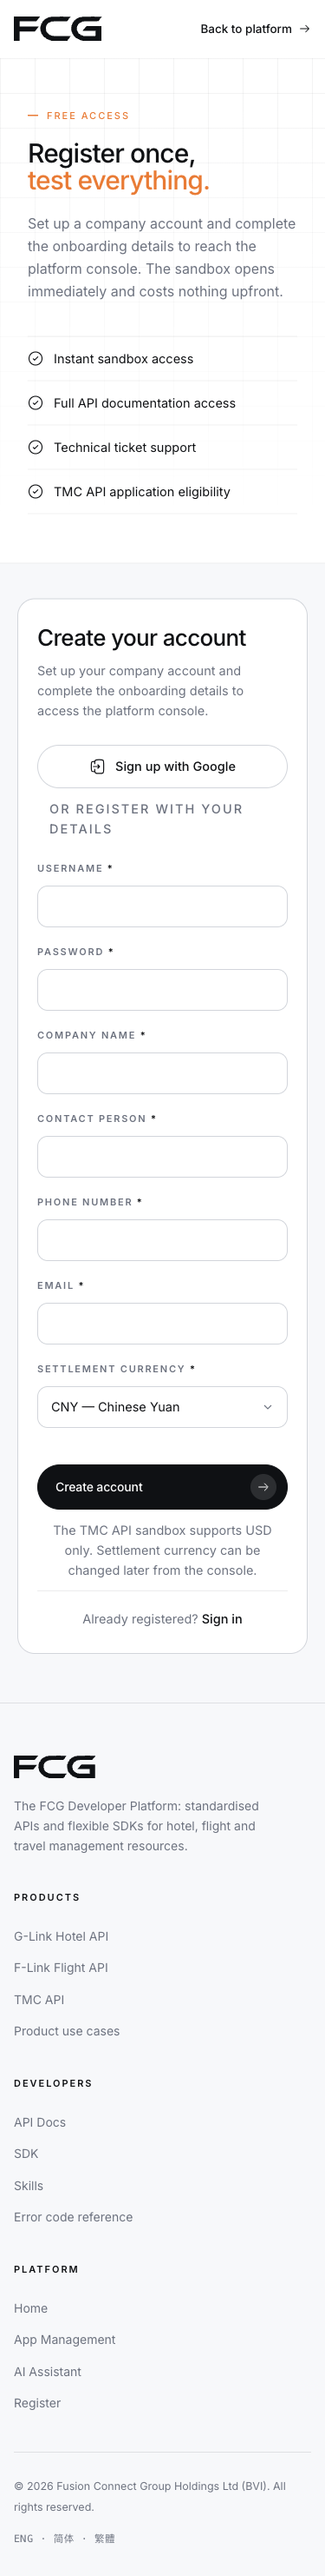
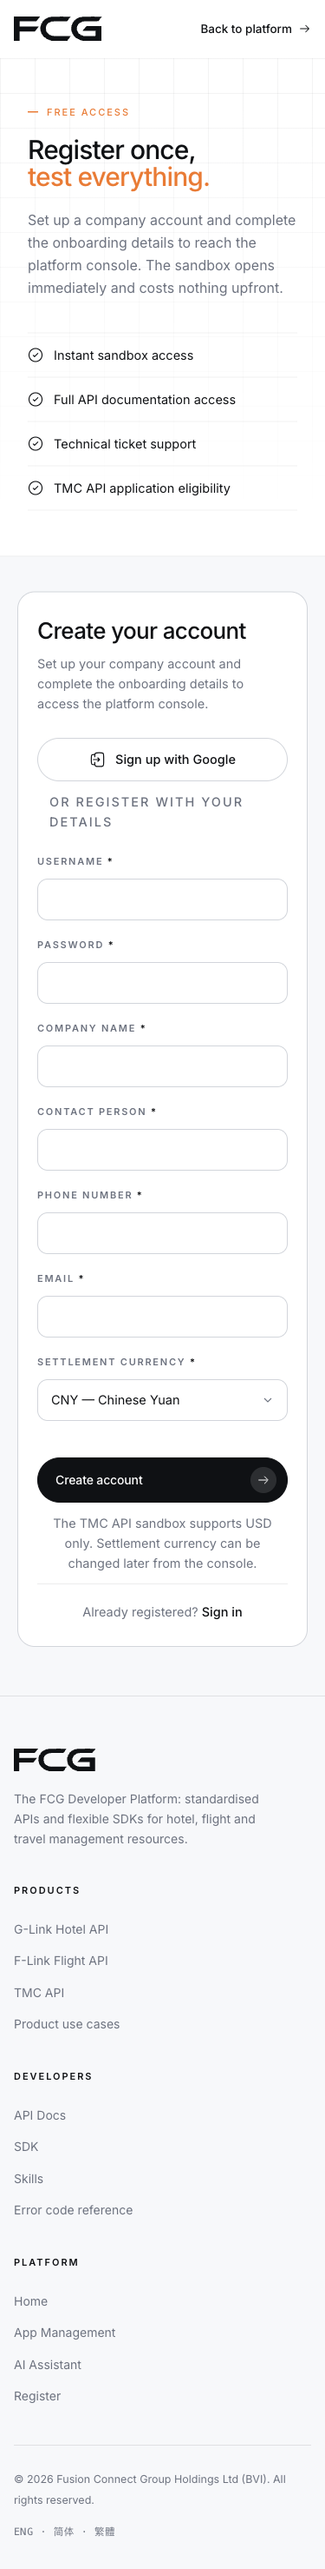
Auth aside: top-aligned and sticky so it clears the fold
The register form is far taller than the aside beside it, so centring the
aside pushed its benefit list below the fold. Top-aligned with a sticky inner
column: fully visible from 720px viewport height upward, and it stays in view
while the long form scrolls.

Verified at 1440x900, 1280x800, 1280x720, 1280x1080 and 375x812 — the aside's
last child bottom sits inside the viewport at every one.

diff --git a/open-portal-redesign/variant-b-impeccable/ai-assistant.html b/open-portal-redesign/variant-b-impeccable/ai-assistant.html
@@ -720,7 +720,11 @@ code.inl{font-family:var(--mono);font-size:12.5px;background:var(--card);border:
 
 /* ---------- auth ---------- */
 .auth{min-height:calc(100vh - 76px);display:grid;grid-template-columns:minmax(0,1.02fr) minmax(0,.98fr)}
-.auth-aside{position:relative;padding:84px 0 72px;border-right:1px solid var(--hair);overflow:hidden;display:flex;align-items:center}
+/* top-aligned, not centred: the register form is far taller than this
+   column, and centring pushed the aside's list below the fold. Sticky so
+   it stays in view while the form scrolls. */
+.auth-aside{position:relative;padding:64px 0 72px;border-right:1px solid var(--hair);overflow:hidden;display:flex;align-items:flex-start}
+.auth-aside .wrap{position:sticky;top:0}
 .auth-aside .wrap{max-width:none;padding:0 64px 0 max(32px,calc((100vw - var(--wrap)) / 2 + 32px));width:100%}
 .auth-aside .ahead{font-size:clamp(30px,3.6vw,50px);line-height:1.04;letter-spacing:-.03em;max-width:18ch;margin-top:22px;color:var(--ink);font-weight:500}
 .auth-aside .ahead em{display:block;font-style:normal;color:var(--accent)}
@@ -822,7 +826,8 @@ code.inl{font-family:var(--mono);font-size:12.5px;background:var(--card);border:
   .docs-side-in{position:static;flex-direction:row;flex-wrap:wrap;gap:26px 44px}
   .docs-main{padding:38px 0 72px}
   .auth{grid-template-columns:minmax(0,1fr);min-height:0}
-  .auth-aside{border-right:0;border-bottom:1px solid var(--hair);padding:60px 0 56px}
+  .auth-aside{border-right:0;border-bottom:1px solid var(--hair);padding:56px 0 52px}
+  .auth-aside .wrap{position:static}
   .auth-aside .wrap{max-width:var(--wrap);margin:0 auto;padding:0 32px}
   .auth-main{padding:56px 32px 72px}
   .chat{grid-template-columns:minmax(0,1fr)}

diff --git a/open-portal-redesign/variant-b-impeccable/api-docs-errors.html b/open-portal-redesign/variant-b-impeccable/api-docs-errors.html
@@ -720,7 +720,11 @@ code.inl{font-family:var(--mono);font-size:12.5px;background:var(--card);border:
 
 /* ---------- auth ---------- */
 .auth{min-height:calc(100vh - 76px);display:grid;grid-template-columns:minmax(0,1.02fr) minmax(0,.98fr)}
-.auth-aside{position:relative;padding:84px 0 72px;border-right:1px solid var(--hair);overflow:hidden;display:flex;align-items:center}
+/* top-aligned, not centred: the register form is far taller than this
+   column, and centring pushed the aside's list below the fold. Sticky so
+   it stays in view while the form scrolls. */
+.auth-aside{position:relative;padding:64px 0 72px;border-right:1px solid var(--hair);overflow:hidden;display:flex;align-items:flex-start}
+.auth-aside .wrap{position:sticky;top:0}
 .auth-aside .wrap{max-width:none;padding:0 64px 0 max(32px,calc((100vw - var(--wrap)) / 2 + 32px));width:100%}
 .auth-aside .ahead{font-size:clamp(30px,3.6vw,50px);line-height:1.04;letter-spacing:-.03em;max-width:18ch;margin-top:22px;color:var(--ink);font-weight:500}
 .auth-aside .ahead em{display:block;font-style:normal;color:var(--accent)}
@@ -822,7 +826,8 @@ code.inl{font-family:var(--mono);font-size:12.5px;background:var(--card);border:
   .docs-side-in{position:static;flex-direction:row;flex-wrap:wrap;gap:26px 44px}
   .docs-main{padding:38px 0 72px}
   .auth{grid-template-columns:minmax(0,1fr);min-height:0}
-  .auth-aside{border-right:0;border-bottom:1px solid var(--hair);padding:60px 0 56px}
+  .auth-aside{border-right:0;border-bottom:1px solid var(--hair);padding:56px 0 52px}
+  .auth-aside .wrap{position:static}
   .auth-aside .wrap{max-width:var(--wrap);margin:0 auto;padding:0 32px}
   .auth-main{padding:56px 32px 72px}
   .chat{grid-template-columns:minmax(0,1fr)}

diff --git a/open-portal-redesign/variant-b-impeccable/api-docs-flink.html b/open-portal-redesign/variant-b-impeccable/api-docs-flink.html
@@ -720,7 +720,11 @@ code.inl{font-family:var(--mono);font-size:12.5px;background:var(--card);border:
 
 /* ---------- auth ---------- */
 .auth{min-height:calc(100vh - 76px);display:grid;grid-template-columns:minmax(0,1.02fr) minmax(0,.98fr)}
-.auth-aside{position:relative;padding:84px 0 72px;border-right:1px solid var(--hair);overflow:hidden;display:flex;align-items:center}
+/* top-aligned, not centred: the register form is far taller than this
+   column, and centring pushed the aside's list below the fold. Sticky so
+   it stays in view while the form scrolls. */
+.auth-aside{position:relative;padding:64px 0 72px;border-right:1px solid var(--hair);overflow:hidden;display:flex;align-items:flex-start}
+.auth-aside .wrap{position:sticky;top:0}
 .auth-aside .wrap{max-width:none;padding:0 64px 0 max(32px,calc((100vw - var(--wrap)) / 2 + 32px));width:100%}
 .auth-aside .ahead{font-size:clamp(30px,3.6vw,50px);line-height:1.04;letter-spacing:-.03em;max-width:18ch;margin-top:22px;color:var(--ink);font-weight:500}
 .auth-aside .ahead em{display:block;font-style:normal;color:var(--accent)}
@@ -822,7 +826,8 @@ code.inl{font-family:var(--mono);font-size:12.5px;background:var(--card);border:
   .docs-side-in{position:static;flex-direction:row;flex-wrap:wrap;gap:26px 44px}
   .docs-main{padding:38px 0 72px}
   .auth{grid-template-columns:minmax(0,1fr);min-height:0}
-  .auth-aside{border-right:0;border-bottom:1px solid var(--hair);padding:60px 0 56px}
+  .auth-aside{border-right:0;border-bottom:1px solid var(--hair);padding:56px 0 52px}
+  .auth-aside .wrap{position:static}
   .auth-aside .wrap{max-width:var(--wrap);margin:0 auto;padding:0 32px}
   .auth-main{padding:56px 32px 72px}
   .chat{grid-template-columns:minmax(0,1fr)}

diff --git a/open-portal-redesign/variant-b-impeccable/api-docs-hotel-apis.html b/open-portal-redesign/variant-b-impeccable/api-docs-hotel-apis.html
@@ -720,7 +720,11 @@ code.inl{font-family:var(--mono);font-size:12.5px;background:var(--card);border:
 
 /* ---------- auth ---------- */
 .auth{min-height:calc(100vh - 76px);display:grid;grid-template-columns:minmax(0,1.02fr) minmax(0,.98fr)}
-.auth-aside{position:relative;padding:84px 0 72px;border-right:1px solid var(--hair);overflow:hidden;display:flex;align-items:center}
+/* top-aligned, not centred: the register form is far taller than this
+   column, and centring pushed the aside's list below the fold. Sticky so
+   it stays in view while the form scrolls. */
+.auth-aside{position:relative;padding:64px 0 72px;border-right:1px solid var(--hair);overflow:hidden;display:flex;align-items:flex-start}
+.auth-aside .wrap{position:sticky;top:0}
 .auth-aside .wrap{max-width:none;padding:0 64px 0 max(32px,calc((100vw - var(--wrap)) / 2 + 32px));width:100%}
 .auth-aside .ahead{font-size:clamp(30px,3.6vw,50px);line-height:1.04;letter-spacing:-.03em;max-width:18ch;margin-top:22px;color:var(--ink);font-weight:500}
 .auth-aside .ahead em{display:block;font-style:normal;color:var(--accent)}
@@ -822,7 +826,8 @@ code.inl{font-family:var(--mono);font-size:12.5px;background:var(--card);border:
   .docs-side-in{position:static;flex-direction:row;flex-wrap:wrap;gap:26px 44px}
   .docs-main{padding:38px 0 72px}
   .auth{grid-template-columns:minmax(0,1fr);min-height:0}
-  .auth-aside{border-right:0;border-bottom:1px solid var(--hair);padding:60px 0 56px}
+  .auth-aside{border-right:0;border-bottom:1px solid var(--hair);padding:56px 0 52px}
+  .auth-aside .wrap{position:static}
   .auth-aside .wrap{max-width:var(--wrap);margin:0 auto;padding:0 32px}
   .auth-main{padding:56px 32px 72px}
   .chat{grid-template-columns:minmax(0,1fr)}

diff --git a/open-portal-redesign/variant-b-impeccable/api-docs-hotel-process.html b/open-portal-redesign/variant-b-impeccable/api-docs-hotel-process.html
@@ -720,7 +720,11 @@ code.inl{font-family:var(--mono);font-size:12.5px;background:var(--card);border:
 
 /* ---------- auth ---------- */
 .auth{min-height:calc(100vh - 76px);display:grid;grid-template-columns:minmax(0,1.02fr) minmax(0,.98fr)}
-.auth-aside{position:relative;padding:84px 0 72px;border-right:1px solid var(--hair);overflow:hidden;display:flex;align-items:center}
+/* top-aligned, not centred: the register form is far taller than this
+   column, and centring pushed the aside's list below the fold. Sticky so
+   it stays in view while the form scrolls. */
+.auth-aside{position:relative;padding:64px 0 72px;border-right:1px solid var(--hair);overflow:hidden;display:flex;align-items:flex-start}
+.auth-aside .wrap{position:sticky;top:0}
 .auth-aside .wrap{max-width:none;padding:0 64px 0 max(32px,calc((100vw - var(--wrap)) / 2 + 32px));width:100%}
 .auth-aside .ahead{font-size:clamp(30px,3.6vw,50px);line-height:1.04;letter-spacing:-.03em;max-width:18ch;margin-top:22px;color:var(--ink);font-weight:500}
 .auth-aside .ahead em{display:block;font-style:normal;color:var(--accent)}
@@ -822,7 +826,8 @@ code.inl{font-family:var(--mono);font-size:12.5px;background:var(--card);border:
   .docs-side-in{position:static;flex-direction:row;flex-wrap:wrap;gap:26px 44px}
   .docs-main{padding:38px 0 72px}
   .auth{grid-template-columns:minmax(0,1fr);min-height:0}
-  .auth-aside{border-right:0;border-bottom:1px solid var(--hair);padding:60px 0 56px}
+  .auth-aside{border-right:0;border-bottom:1px solid var(--hair);padding:56px 0 52px}
+  .auth-aside .wrap{position:static}
   .auth-aside .wrap{max-width:var(--wrap);margin:0 auto;padding:0 32px}
   .auth-main{padding:56px 32px 72px}
   .chat{grid-template-columns:minmax(0,1fr)}

diff --git a/open-portal-redesign/variant-b-impeccable/api-docs-hotel.html b/open-portal-redesign/variant-b-impeccable/api-docs-hotel.html
@@ -720,7 +720,11 @@ code.inl{font-family:var(--mono);font-size:12.5px;background:var(--card);border:
 
 /* ---------- auth ---------- */
 .auth{min-height:calc(100vh - 76px);display:grid;grid-template-columns:minmax(0,1.02fr) minmax(0,.98fr)}
-.auth-aside{position:relative;padding:84px 0 72px;border-right:1px solid var(--hair);overflow:hidden;display:flex;align-items:center}
+/* top-aligned, not centred: the register form is far taller than this
+   column, and centring pushed the aside's list below the fold. Sticky so
+   it stays in view while the form scrolls. */
+.auth-aside{position:relative;padding:64px 0 72px;border-right:1px solid var(--hair);overflow:hidden;display:flex;align-items:flex-start}
+.auth-aside .wrap{position:sticky;top:0}
 .auth-aside .wrap{max-width:none;padding:0 64px 0 max(32px,calc((100vw - var(--wrap)) / 2 + 32px));width:100%}
 .auth-aside .ahead{font-size:clamp(30px,3.6vw,50px);line-height:1.04;letter-spacing:-.03em;max-width:18ch;margin-top:22px;color:var(--ink);font-weight:500}
 .auth-aside .ahead em{display:block;font-style:normal;color:var(--accent)}
@@ -822,7 +826,8 @@ code.inl{font-family:var(--mono);font-size:12.5px;background:var(--card);border:
   .docs-side-in{position:static;flex-direction:row;flex-wrap:wrap;gap:26px 44px}
   .docs-main{padding:38px 0 72px}
   .auth{grid-template-columns:minmax(0,1fr);min-height:0}
-  .auth-aside{border-right:0;border-bottom:1px solid var(--hair);padding:60px 0 56px}
+  .auth-aside{border-right:0;border-bottom:1px solid var(--hair);padding:56px 0 52px}
+  .auth-aside .wrap{position:static}
   .auth-aside .wrap{max-width:var(--wrap);margin:0 auto;padding:0 32px}
   .auth-main{padding:56px 32px 72px}
   .chat{grid-template-columns:minmax(0,1fr)}

diff --git a/open-portal-redesign/variant-b-impeccable/app-management.html b/open-portal-redesign/variant-b-impeccable/app-management.html
@@ -720,7 +720,11 @@ code.inl{font-family:var(--mono);font-size:12.5px;background:var(--card);border:
 
 /* ---------- auth ---------- */
 .auth{min-height:calc(100vh - 76px);display:grid;grid-template-columns:minmax(0,1.02fr) minmax(0,.98fr)}
-.auth-aside{position:relative;padding:84px 0 72px;border-right:1px solid var(--hair);overflow:hidden;display:flex;align-items:center}
+/* top-aligned, not centred: the register form is far taller than this
+   column, and centring pushed the aside's list below the fold. Sticky so
+   it stays in view while the form scrolls. */
+.auth-aside{position:relative;padding:64px 0 72px;border-right:1px solid var(--hair);overflow:hidden;display:flex;align-items:flex-start}
+.auth-aside .wrap{position:sticky;top:0}
 .auth-aside .wrap{max-width:none;padding:0 64px 0 max(32px,calc((100vw - var(--wrap)) / 2 + 32px));width:100%}
 .auth-aside .ahead{font-size:clamp(30px,3.6vw,50px);line-height:1.04;letter-spacing:-.03em;max-width:18ch;margin-top:22px;color:var(--ink);font-weight:500}
 .auth-aside .ahead em{display:block;font-style:normal;color:var(--accent)}
@@ -822,7 +826,8 @@ code.inl{font-family:var(--mono);font-size:12.5px;background:var(--card);border:
   .docs-side-in{position:static;flex-direction:row;flex-wrap:wrap;gap:26px 44px}
   .docs-main{padding:38px 0 72px}
   .auth{grid-template-columns:minmax(0,1fr);min-height:0}
-  .auth-aside{border-right:0;border-bottom:1px solid var(--hair);padding:60px 0 56px}
+  .auth-aside{border-right:0;border-bottom:1px solid var(--hair);padding:56px 0 52px}
+  .auth-aside .wrap{position:static}
   .auth-aside .wrap{max-width:var(--wrap);margin:0 auto;padding:0 32px}
   .auth-main{padding:56px 32px 72px}
   .chat{grid-template-columns:minmax(0,1fr)}

diff --git a/open-portal-redesign/variant-b-impeccable/login.html b/open-portal-redesign/variant-b-impeccable/login.html
@@ -720,7 +720,11 @@ code.inl{font-family:var(--mono);font-size:12.5px;background:var(--card);border:
 
 /* ---------- auth ---------- */
 .auth{min-height:calc(100vh - 76px);display:grid;grid-template-columns:minmax(0,1.02fr) minmax(0,.98fr)}
-.auth-aside{position:relative;padding:84px 0 72px;border-right:1px solid var(--hair);overflow:hidden;display:flex;align-items:center}
+/* top-aligned, not centred: the register form is far taller than this
+   column, and centring pushed the aside's list below the fold. Sticky so
+   it stays in view while the form scrolls. */
+.auth-aside{position:relative;padding:64px 0 72px;border-right:1px solid var(--hair);overflow:hidden;display:flex;align-items:flex-start}
+.auth-aside .wrap{position:sticky;top:0}
 .auth-aside .wrap{max-width:none;padding:0 64px 0 max(32px,calc((100vw - var(--wrap)) / 2 + 32px));width:100%}
 .auth-aside .ahead{font-size:clamp(30px,3.6vw,50px);line-height:1.04;letter-spacing:-.03em;max-width:18ch;margin-top:22px;color:var(--ink);font-weight:500}
 .auth-aside .ahead em{display:block;font-style:normal;color:var(--accent)}
@@ -822,7 +826,8 @@ code.inl{font-family:var(--mono);font-size:12.5px;background:var(--card);border:
   .docs-side-in{position:static;flex-direction:row;flex-wrap:wrap;gap:26px 44px}
   .docs-main{padding:38px 0 72px}
   .auth{grid-template-columns:minmax(0,1fr);min-height:0}
-  .auth-aside{border-right:0;border-bottom:1px solid var(--hair);padding:60px 0 56px}
+  .auth-aside{border-right:0;border-bottom:1px solid var(--hair);padding:56px 0 52px}
+  .auth-aside .wrap{position:static}
   .auth-aside .wrap{max-width:var(--wrap);margin:0 auto;padding:0 32px}
   .auth-main{padding:56px 32px 72px}
   .chat{grid-template-columns:minmax(0,1fr)}

diff --git a/open-portal-redesign/variant-b-impeccable/register.html b/open-portal-redesign/variant-b-impeccable/register.html
@@ -720,7 +720,11 @@ code.inl{font-family:var(--mono);font-size:12.5px;background:var(--card);border:
 
 /* ---------- auth ---------- */
 .auth{min-height:calc(100vh - 76px);display:grid;grid-template-columns:minmax(0,1.02fr) minmax(0,.98fr)}
-.auth-aside{position:relative;padding:84px 0 72px;border-right:1px solid var(--hair);overflow:hidden;display:flex;align-items:center}
+/* top-aligned, not centred: the register form is far taller than this
+   column, and centring pushed the aside's list below the fold. Sticky so
+   it stays in view while the form scrolls. */
+.auth-aside{position:relative;padding:64px 0 72px;border-right:1px solid var(--hair);overflow:hidden;display:flex;align-items:flex-start}
+.auth-aside .wrap{position:sticky;top:0}
 .auth-aside .wrap{max-width:none;padding:0 64px 0 max(32px,calc((100vw - var(--wrap)) / 2 + 32px));width:100%}
 .auth-aside .ahead{font-size:clamp(30px,3.6vw,50px);line-height:1.04;letter-spacing:-.03em;max-width:18ch;margin-top:22px;color:var(--ink);font-weight:500}
 .auth-aside .ahead em{display:block;font-style:normal;color:var(--accent)}
@@ -822,7 +826,8 @@ code.inl{font-family:var(--mono);font-size:12.5px;background:var(--card);border:
   .docs-side-in{position:static;flex-direction:row;flex-wrap:wrap;gap:26px 44px}
   .docs-main{padding:38px 0 72px}
   .auth{grid-template-columns:minmax(0,1fr);min-height:0}
-  .auth-aside{border-right:0;border-bottom:1px solid var(--hair);padding:60px 0 56px}
+  .auth-aside{border-right:0;border-bottom:1px solid var(--hair);padding:56px 0 52px}
+  .auth-aside .wrap{position:static}
   .auth-aside .wrap{max-width:var(--wrap);margin:0 auto;padding:0 32px}
   .auth-main{padding:56px 32px 72px}
   .chat{grid-template-columns:minmax(0,1fr)}

diff --git a/open-portal-redesign/variant-b-impeccable/sdk.html b/open-portal-redesign/variant-b-impeccable/sdk.html
@@ -720,7 +720,11 @@ code.inl{font-family:var(--mono);font-size:12.5px;background:var(--card);border:
 
 /* ---------- auth ---------- */
 .auth{min-height:calc(100vh - 76px);display:grid;grid-template-columns:minmax(0,1.02fr) minmax(0,.98fr)}
-.auth-aside{position:relative;padding:84px 0 72px;border-right:1px solid var(--hair);overflow:hidden;display:flex;align-items:center}
+/* top-aligned, not centred: the register form is far taller than this
+   column, and centring pushed the aside's list below the fold. Sticky so
+   it stays in view while the form scrolls. */
+.auth-aside{position:relative;padding:64px 0 72px;border-right:1px solid var(--hair);overflow:hidden;display:flex;align-items:flex-start}
+.auth-aside .wrap{position:sticky;top:0}
 .auth-aside .wrap{max-width:none;padding:0 64px 0 max(32px,calc((100vw - var(--wrap)) / 2 + 32px));width:100%}
 .auth-aside .ahead{font-size:clamp(30px,3.6vw,50px);line-height:1.04;letter-spacing:-.03em;max-width:18ch;margin-top:22px;color:var(--ink);font-weight:500}
 .auth-aside .ahead em{display:block;font-style:normal;color:var(--accent)}
@@ -822,7 +826,8 @@ code.inl{font-family:var(--mono);font-size:12.5px;background:var(--card);border:
   .docs-side-in{position:static;flex-direction:row;flex-wrap:wrap;gap:26px 44px}
   .docs-main{padding:38px 0 72px}
   .auth{grid-template-columns:minmax(0,1fr);min-height:0}
-  .auth-aside{border-right:0;border-bottom:1px solid var(--hair);padding:60px 0 56px}
+  .auth-aside{border-right:0;border-bottom:1px solid var(--hair);padding:56px 0 52px}
+  .auth-aside .wrap{position:static}
   .auth-aside .wrap{max-width:var(--wrap);margin:0 auto;padding:0 32px}
   .auth-main{padding:56px 32px 72px}
   .chat{grid-template-columns:minmax(0,1fr)}

diff --git a/open-portal-redesign/variant-b-impeccable/skills.html b/open-portal-redesign/variant-b-impeccable/skills.html
@@ -720,7 +720,11 @@ code.inl{font-family:var(--mono);font-size:12.5px;background:var(--card);border:
 
 /* ---------- auth ---------- */
 .auth{min-height:calc(100vh - 76px);display:grid;grid-template-columns:minmax(0,1.02fr) minmax(0,.98fr)}
-.auth-aside{position:relative;padding:84px 0 72px;border-right:1px solid var(--hair);overflow:hidden;display:flex;align-items:center}
+/* top-aligned, not centred: the register form is far taller than this
+   column, and centring pushed the aside's list below the fold. Sticky so
+   it stays in view while the form scrolls. */
+.auth-aside{position:relative;padding:64px 0 72px;border-right:1px solid var(--hair);overflow:hidden;display:flex;align-items:flex-start}
+.auth-aside .wrap{position:sticky;top:0}
 .auth-aside .wrap{max-width:none;padding:0 64px 0 max(32px,calc((100vw - var(--wrap)) / 2 + 32px));width:100%}
 .auth-aside .ahead{font-size:clamp(30px,3.6vw,50px);line-height:1.04;letter-spacing:-.03em;max-width:18ch;margin-top:22px;color:var(--ink);font-weight:500}
 .auth-aside .ahead em{display:block;font-style:normal;color:var(--accent)}
@@ -822,7 +826,8 @@ code.inl{font-family:var(--mono);font-size:12.5px;background:var(--card);border:
   .docs-side-in{position:static;flex-direction:row;flex-wrap:wrap;gap:26px 44px}
   .docs-main{padding:38px 0 72px}
   .auth{grid-template-columns:minmax(0,1fr);min-height:0}
-  .auth-aside{border-right:0;border-bottom:1px solid var(--hair);padding:60px 0 56px}
+  .auth-aside{border-right:0;border-bottom:1px solid var(--hair);padding:56px 0 52px}
+  .auth-aside .wrap{position:static}
   .auth-aside .wrap{max-width:var(--wrap);margin:0 auto;padding:0 32px}
   .auth-main{padding:56px 32px 72px}
   .chat{grid-template-columns:minmax(0,1fr)}

diff --git a/open-portal-redesign/variant-b-impeccable/build-pages.py b/open-portal-redesign/variant-b-impeccable/build-pages.py
@@ -396,7 +396,11 @@ code.inl{font-family:var(--mono);font-size:12.5px;background:var(--card);border:
 
 /* ---------- auth ---------- */
 .auth{min-height:calc(100vh - 76px);display:grid;grid-template-columns:minmax(0,1.02fr) minmax(0,.98fr)}
-.auth-aside{position:relative;padding:84px 0 72px;border-right:1px solid var(--hair);overflow:hidden;display:flex;align-items:center}
+/* top-aligned, not centred: the register form is far taller than this
+   column, and centring pushed the aside's list below the fold. Sticky so
+   it stays in view while the form scrolls. */
+.auth-aside{position:relative;padding:64px 0 72px;border-right:1px solid var(--hair);overflow:hidden;display:flex;align-items:flex-start}
+.auth-aside .wrap{position:sticky;top:0}
 .auth-aside .wrap{max-width:none;padding:0 64px 0 max(32px,calc((100vw - var(--wrap)) / 2 + 32px));width:100%}
 .auth-aside .ahead{font-size:clamp(30px,3.6vw,50px);line-height:1.04;letter-spacing:-.03em;max-width:18ch;margin-top:22px;color:var(--ink);font-weight:500}
 .auth-aside .ahead em{display:block;font-style:normal;color:var(--accent)}
@@ -498,7 +502,8 @@ code.inl{font-family:var(--mono);font-size:12.5px;background:var(--card);border:
   .docs-side-in{position:static;flex-direction:row;flex-wrap:wrap;gap:26px 44px}
   .docs-main{padding:38px 0 72px}
   .auth{grid-template-columns:minmax(0,1fr);min-height:0}
-  .auth-aside{border-right:0;border-bottom:1px solid var(--hair);padding:60px 0 56px}
+  .auth-aside{border-right:0;border-bottom:1px solid var(--hair);padding:56px 0 52px}
+  .auth-aside .wrap{position:static}
   .auth-aside .wrap{max-width:var(--wrap);margin:0 auto;padding:0 32px}
   .auth-main{padding:56px 32px 72px}
   .chat{grid-template-columns:minmax(0,1fr)}
